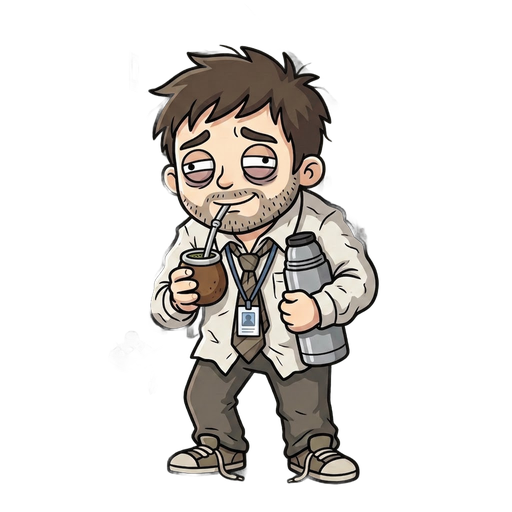
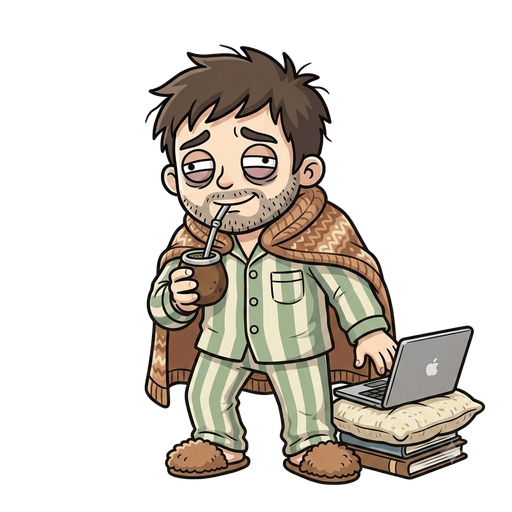
art: regenerar la skin home_office, que había salido igual al oficinista base
La generación anterior no había cambiado nada: el atlas tenía al oficinista de
siempre bajo el nombre de la skin. Con el original rechazado a la vista se ve
mejor qué pasó — tenía LA OFICINA DE FONDO, así que Gemini ignoró las dos cosas
que el prompt pedía: el cambio de vestuario y el "plain pure white background".
Después de rembg quedó el personaje base recortado. El filtro de huella no podía
atraparlo: descarta capturas literales del archivo de referencia, no
generaciones que ignoran el pedido.

La nueva tiene todo lo que pedía el prompt: pijama a rayas, pantuflas, la manta
como capa, el mate y la laptop sobre un almohadón. Diferencia contra el arte base
17,8 (era 1,4), dentro del rango de las otras skins legítimas.

El original rechazado queda en dropbox/rechazadas/ en vez de borrarse: es el
ejemplo concreto de este modo de falla y no ocupa nada.

VERIFICACIÓN sobre build LIMPIO (borrando build/DD, porque el incremental no
repackea los atlas y los números mienten — §6 del handoff de perf):
- 36 @2x + 36 @3x, ninguna en blanco ni copia de su base.
- earth.atlasc 4 páginas @3x, ui.atlasc 2 — igual que el valor post-arreglo. La
  skin nueva está dentro del atlas, no suelta.
- App 82/82, UI 10/10, pipeline 20/20.

Se corrige de paso el peso del .app en el handoff de perf: re-medido da 135 MB en
Debug limpio y 115 en Release, no 112. No es regresión —el número viejo debe
venir de otro build—, pero el desglose deja algo útil a la vista: los 11 fondos
[…]

diff --git a/Docs/HANDOFF-perf.md b/Docs/HANDOFF-perf.md
@@ -125,6 +125,23 @@ desentonan con los integrados.
 | Assets en disco | 230 MB | **36 MB** |
 | fps en reposo | 58 | **60** |
 
+> **Sobre los 112 MB**: re-medido el 2026-08-04 sobre un build Debug LIMPIO da
+> **135 MB**, y Release **115 MB** (la diferencia son el dylib de debug y los
+> Frameworks). No es una regresión: el número original debe venir de otro tipo de
+> build. Lo que importa del desglose es que **los 11 fondos solos son ~81 MB** —
+> 5,1 MB cada `@3x` más su `@2x`—, o sea más de la mitad del `.app`. Son el único
+> grupo que la Fase 2 dejó sin tocar, a propósito (§3). El resto se reparte entre
+> `earth.atlasc` 20 MB, Frameworks 16 MB, `cosmic.atlasc` 9,5 MB y
+> `ui.atlasc` 8,7 MB.
+>
+> Eso deja una consecuencia que conviene tener presente: **reautorar los fondos a
+> proporción vertical (~768×1664) sigue siendo la única ganancia grande que queda
+> en peso de app**, y hoy ~54% de sus píxeles no se ven nunca. Venía dentro de la
+> Fase 3.1, que se descartó porque no mueve fps — y eso sigue siendo cierto—,
+> pero **el peso del `.app` es otra métrica y sí la movería**. Si algún día
+> importa el tamaño de descarga en la App Store, es por ahí y no por el
+> `SKCropNode`.
+
 Captura después del cambio: `scratchpad/qa-shots/perf-after-resize.png`.
 Comparada contra el baseline: **el arte se ve indistinguible**.
 

diff --git a/Tools/asset-pipeline/prompts/gemini_pro/127_oficinista__home_office.md b/Tools/asset-pipeline/prompts/gemini_pro/127_oficinista__home_office.md
@@ -1,7 +1,7 @@
 # 127 — Home Office (skin de Oficinista)
 
 - **archivo**: `oficinista__home_office.png`
-- **estado**: pendiente
+- **estado**: hecho
 - **referencia**: adjuntar `dropbox/procesadas/oficinista.png`
 - **destino**: Tools/asset-pipeline/dropbox/
 
